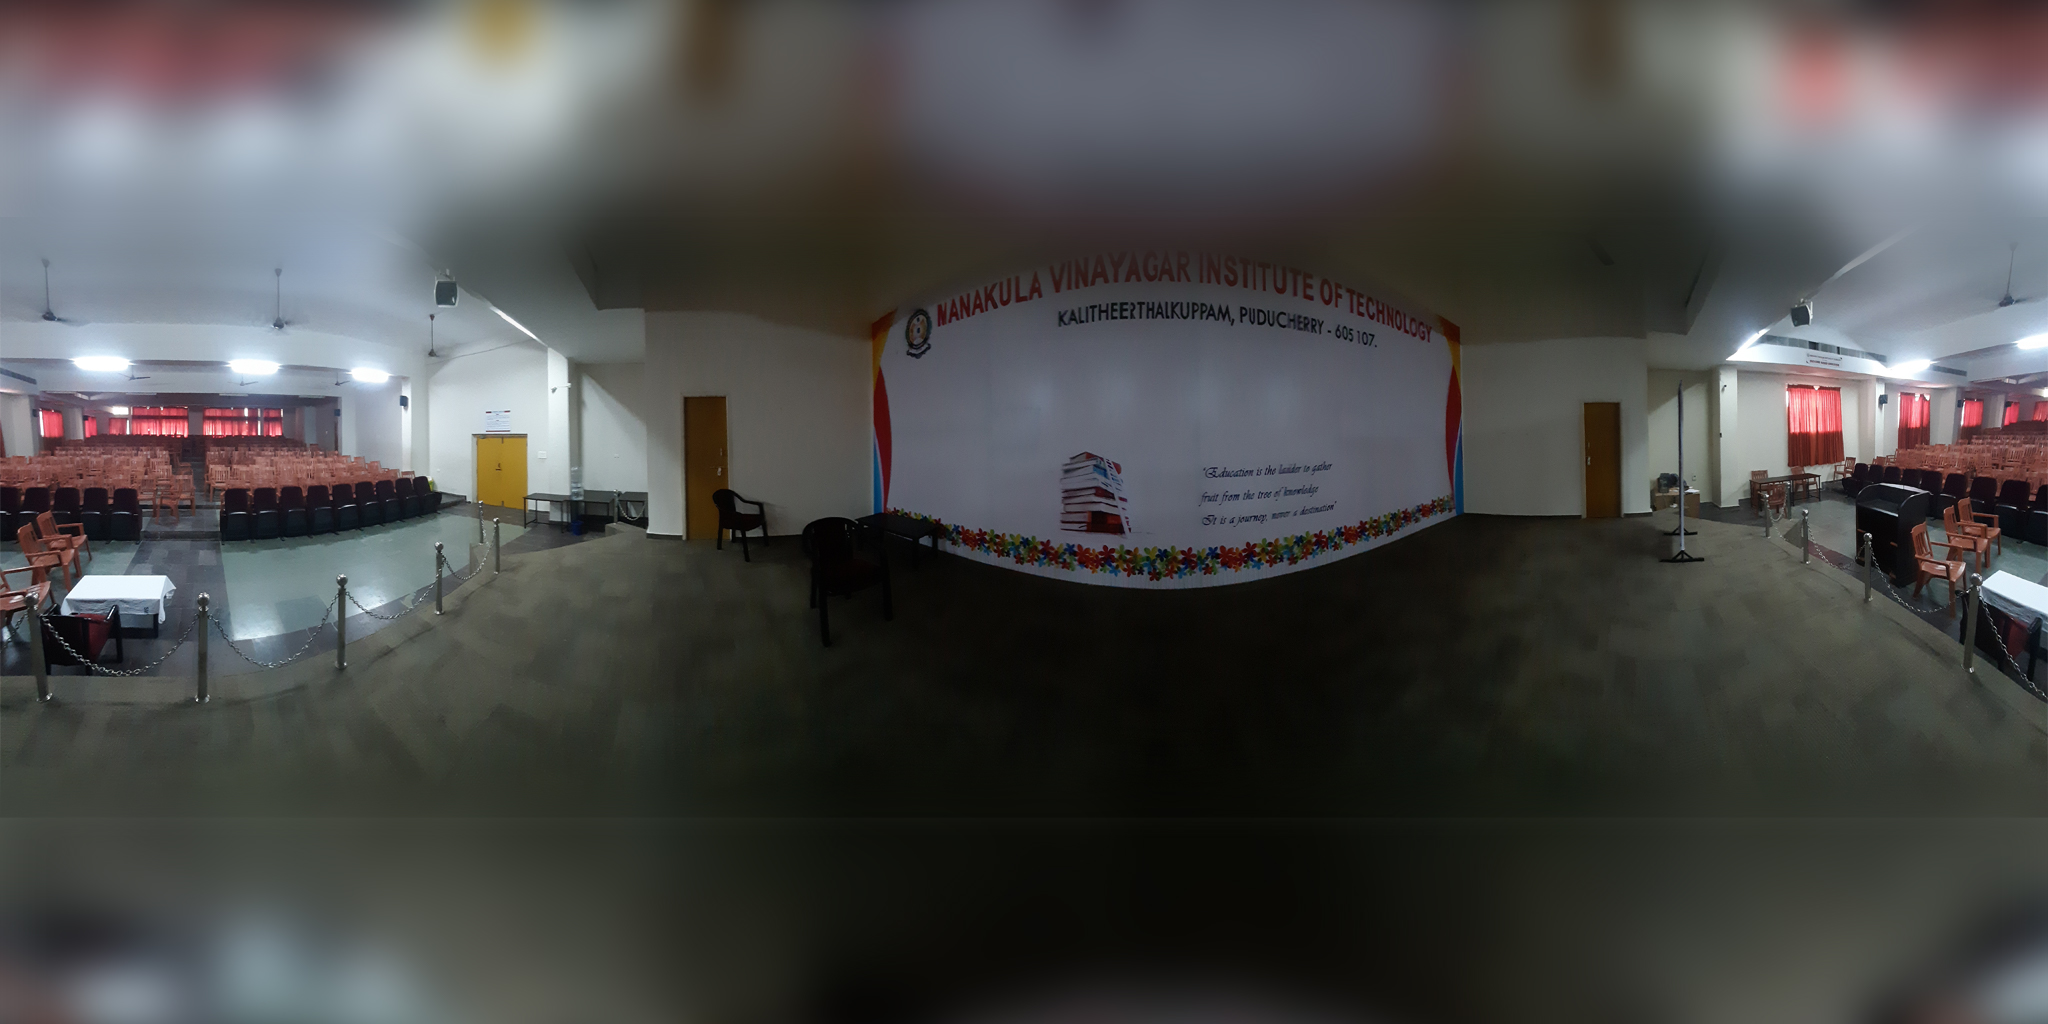
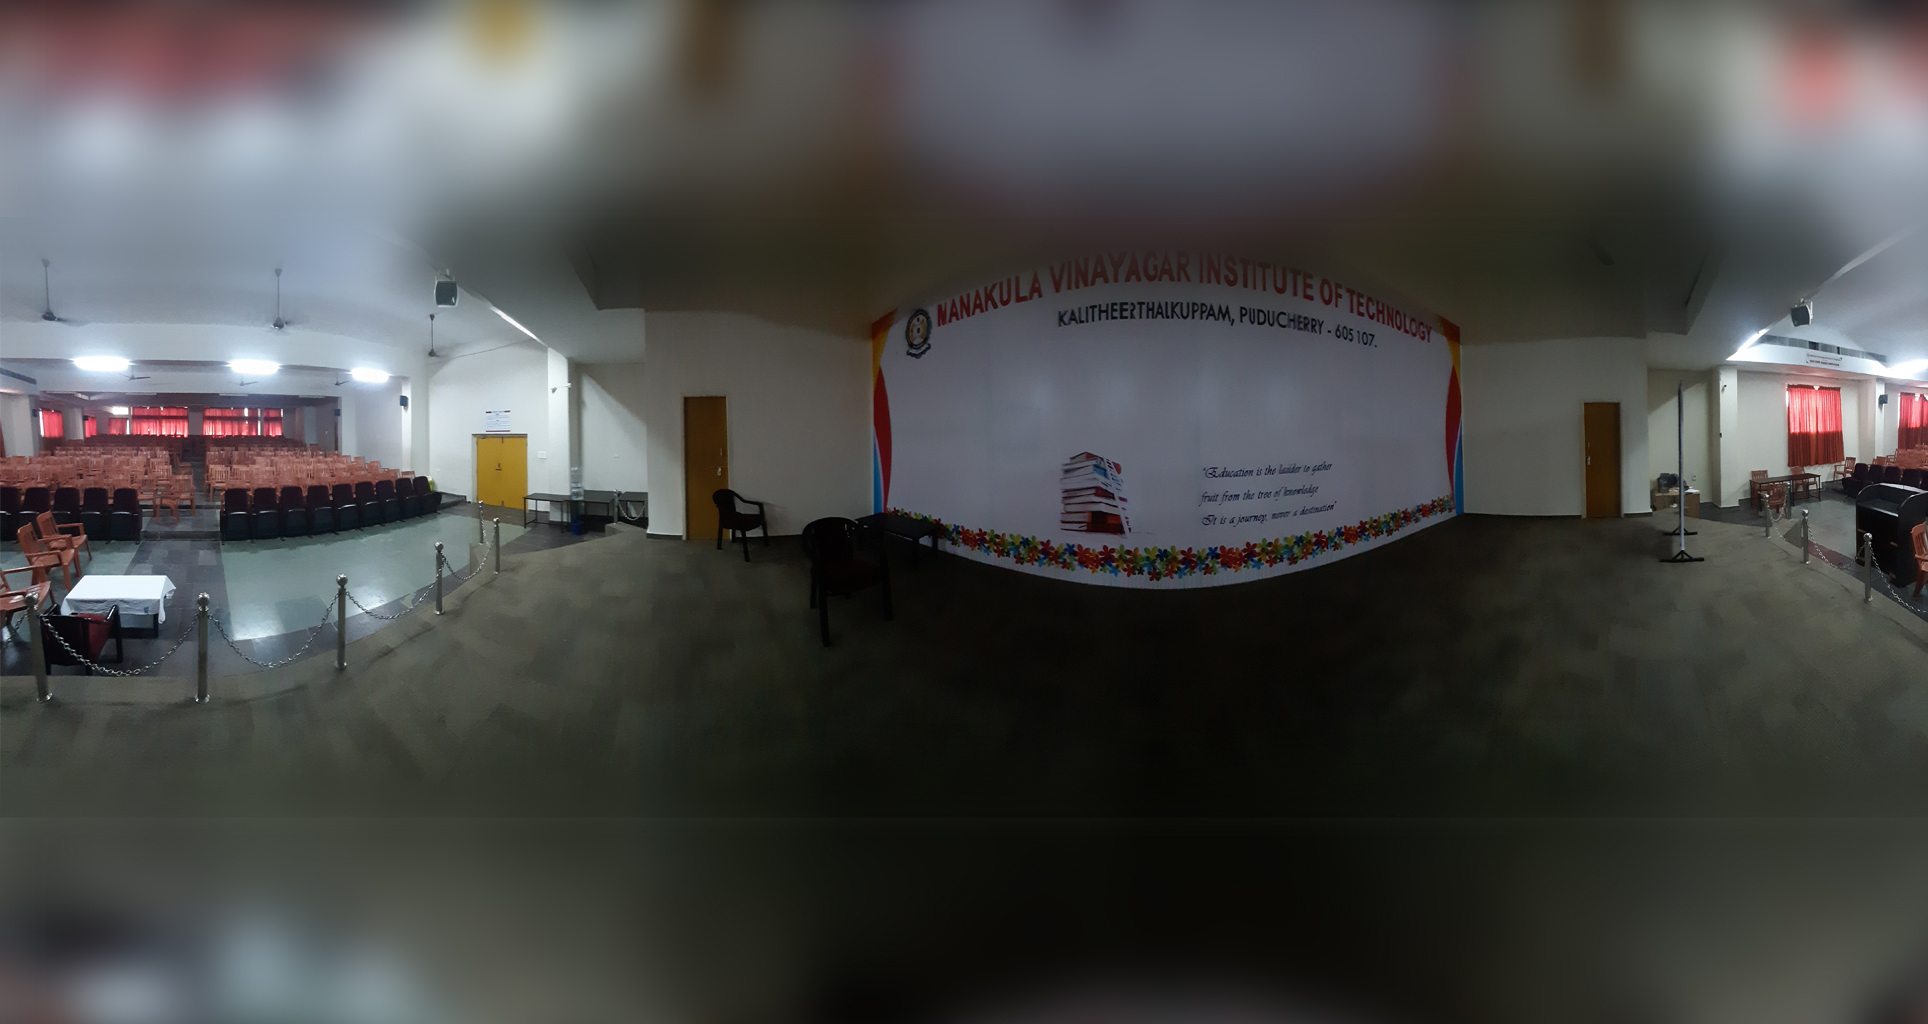
latestcommit

diff --git a/MR/templates/entrance.html b/MR/templates/entrance.html
@@ -17,8 +17,8 @@
 
             <img id="entrance-center" src="../templates/assets/360 img/ENTRANCE-CENTER.jpg">
             <img id="entrance-in" src="../templates/assets/icon/ENTRANCE-MAIN.png">
-            <img id="left-exit" src="../templates/assets/icon/ENTRANCE-LEFT.png">
-            <img id="entrance-out" src="../templates/assets/icon/ENTERANCE-OUT-1.png">
+           
+            <img id="arrow" src="../templates/assets/icon/arrow.png">
             <img id="entrance-1" src="../templates/assets/360 img/ENTRANCE-1.png">
             
         </a-assets>
@@ -27,14 +27,8 @@
         </a-entity>
         <a-sky id="image-360" src="#entrance-center">
             <a-text font="aileronsemibold" value="Entrance-In" width="6" position="-6.86838 2.47607 4.70854" scale="-2.46 2.99 -17.94" rotation="-7.02 -230.38000000000002 -0.7500000000000001" text="width: 5; align: center; color: #ffffff; side: back; negate: false; wrapCount: 38.85" visible=""></a-text>
-            
-            <a-text font="aileronsemibold" value="Entrance-Exit" width="6" position="6.84427 2.11433 -2.4453" scale="2 2.99 -17.94" rotation="-7.02 -247.16 -0.7500000000000001" text="width: 5; align: center; color: #ffffff; negate: false; wrapCount: 38.85" visible=""></a-text>
-            <a-text font="aileronsemibold" value="Left-Entrance-Exit" width="6" position="1.21249 1.99429 -8.65395" scale="1.9 1.83 -64.08" rotation="-3.6500000000000004 -196.68 1.24" text="width: 5; align: center; color: #ffffff; negate: false; wrapCount: 38.85" visible=""></a-text>
-
-            <a-entity id="entrance-in" geometry="height: 6; width: 6" material="src:#entrance-in; transparent: true; emissiveIntensity: 0" position="-22.74298 3.73781 15.08288" rotation="0.207410721837358 -44.20592 -1.58349" scale="1 1 -0.001" cursor-listener="" link="href: reception.html"></a-entity>
-            <a-entity id="left-exit" geometry="height: 6; width: 6" material="src:#left-exit; transparent: true; emissiveIntensity: 0" position="6.19733 5.38081 -35.39186" rotation="0.207410721837358 -44.41592000000001 -0.02349126960036375" scale="1 1 -0.001" cursor-listener="" link="href: left_entrance.html"></a-entity>
-           
-            <a-entity id="entrance-out" geometry="height: 6; width: 6" material="src: #entrance-out; transparent: true; emissiveIntensity: 0" position="31.98042 4.64233 -10.59072" rotation="0.01741 -53.71592 -0.02349126960036375" scale="1 1 -0.001" cursor-listener="" link="href: entrance-2.html"></a-entity>
+           <a-entity id="entrance-in" geometry="height: 6; width: 6" material="src:#entrance-in; transparent: true; emissiveIntensity: 0" position="-22.74298 3.73781 15.08288" rotation="0.207410721837358 -44.20592 -1.58349" scale="1 1 -0.001" cursor-listener="" link="href: reception.html"></a-entity>
+           <a-entity id="arrow" geometry="height: 6; width: 6" material="src: #arrow; transparent: true; emissiveIntensity: 0" position="6.04056 1.42667 -17.96215" rotation="0.01741 -135.87592 -0.02349126960036375" scale="1.88 0.72 0.099" cursor-listener="" link="href: entrance-2.html"></a-entity>
            </a-sky>
     </a-scene>
 </body>

diff --git a/MR/templates/library_outer.html b/MR/templates/library_outer.html
@@ -1,0 +1,37 @@
+<!DOCTYPE html>
+<html lang="en">
+
+<head>
+    <meta charset="UTF-8">
+    <meta http-equiv="X-UA-Compatible" content="IE=edge">
+    <meta name="viewport" content="width=device-width, initial-scale=1.0">
+    <title>Document</title>
+    <script src="https://aframe.io/releases/1.2.0/aframe.min.js"></script>
+    <link rel="stylesheet" href="../templates/css/main.css">
+    <script src="../templates/js/main.js"></script>
+</head>
+
+<body>
+    <a-scene>
+        <a-assets>
+
+            <img id="outer" src="../templates/assets/360 img/library_outer.jpg">
+            <img id="arrow" src="../templates/assets/icon/arrow.png">    
+            <img id="arrow-1" src="../templates/assets/icon/arrow.png">    
+            <img id="arrow-2" src="../templates/assets/icon/arrow.png">    
+
+           
+             
+        </a-assets>
+        <a-entity id="camera" camera mouse-cursor look-controls>
+            <a-cursor fuse="true" color="white"></a-cursor>
+        </a-entity>
+        <a-sky id="image-360" src="#outer">
+            <a-entity id="arrow" geometry="height: 6; width: 6; skipCache: true" material="src:#arrow ; transparent: true; emissiveIntensity: 0" position="-21.44273 2.6922 6.2821" rotation="-0.71 220.73 1.727" scale="-2.23 0.72 0.01" cursor-listener="" link="href: main-center.html"></a-entity>
+            <a-entity id="arrow-1" geometry="height: 6; width: 6; skipCache: true" material="src:#arrow-1; transparent: true; emissiveIntensity: 0" position="5.89451 6.76943 -32.50433" rotation="0.99 344.68000000000006 0.787" scale="-2.08 0.72 -0.28" cursor-listener="" link="href: library_front.html"></a-entity>
+            <a-entity id="arrow-2" geometry="height: 6; width: 6; skipCache: true" material="src:#arrow-2; transparent: true; emissiveIntensity: 0" position="-14.64244 4.16483 32.11311" rotation="-2.82 400 -10.253" scale="-3.14 0.72 -0.050" cursor-listener="" link="href: canteen.html"></a-entity>
+          </a-sky>
+    </a-scene>
+</body>
+
+</html>

diff --git a/MR/templates/main-center.html b/MR/templates/main-center.html
@@ -17,6 +17,9 @@
 
             <img id="entance-left" src="../templates/assets/360 img/MAIN-CENTER.jpg">
             <img id="exit" src="../templates/assets/icon/RECEPTION-OUT.png">
+            <img id="arrow" src="../templates/assets/icon/arrow.png">
+            <img id="arrow-1" src="../templates/assets/icon/arrow.png">
+            <img id="arrow-2" src="../templates/assets/icon/arrow.png">
     
           </a-assets>
         <a-entity id="camera" camera mouse-cursor look-controls>
@@ -24,6 +27,9 @@
         </a-entity>
         <a-sky id="image-360" src="#entance-left">
             <a-entity id="exit" geometry="height: 6; width: 6" material="src: #exit; transparent: true; emissiveIntensity: 0" position="13.0114 2.58805 -4.27078" rotation="-15.993 -250.00000000000003 180.6" scale="0.72 -0.86 -0.17" cursor-listener="" background="" link="href: reception.html"></a-entity>
+            <a-entity id="arrow" geometry="height: 6; width: 6" material="src: #arrow; transparent: true; emissiveIntensity: 0; side: back; width: 6" position="-13.17059 3.63049 1.72001" rotation="3.57 500.00000000000006 2.34" scale="-1.54999 0.47 0.01" cursor-listener="" background="" link="href: reception.html"></a-entity>
+            <a-entity id="arrow-1" geometry="height: 6; width: 6" material="src: #arrow-1; transparent: true; emissiveIntensity: 0" position="2.78303 2.90208 -13.22278" rotation="-15.540000000000001 -138.57 166.74" scale="1.72 -0.72 -0.02" cursor-listener="" background="" link="href: waiting_hall_way.html"></a-entity>
+            <a-entity id="arrow-2" geometry="height: 6; width: 6" material="src: #arrow-2; transparent: true; emissiveIntensity: 0" position="0.86695 3.35605 17.89981" rotation="40 -138.57 200" scale="0.98 -0.72 -0.02" cursor-listener="" background="" link="href: library_outer.html"></a-entity>
              </a-sky>
     </a-scene>
 </body>

diff --git a/MR/templates/canteen.html b/MR/templates/canteen.html
@@ -15,9 +15,9 @@
     <a-scene>
         <a-assets>
 
-            <img id="front" src="../templates/assets/360 img/library_front.jpg">
+            <img id="front" src="../templates/assets/360 img/canteen.jpg">
             <img id="arrow" src="../templates/assets/icon/arrow.png">
-            <img id="arrow-1" src="../templates/assets/icon/arrow.png">
+            
                 
            
              
@@ -26,8 +26,8 @@
             <a-cursor fuse="true" color="white"></a-cursor>
         </a-entity>
         <a-sky id="image-360" src="#front">
-            <a-entity id="arrow" geometry="height: 6; width: 6; skipCache: true" material="src:#arrow; transparent: true; emissiveIntensity: 0" position="-9.57073 0.40249 13.8082" rotation="3.3 220 0.587" scale="-3.45 0.72 -0.03" cursor-listener="" link="href: library_last.html"></a-entity>
-            <a-entity id="arrow-1" geometry="height: 6; width: 6; skipCache: true" material="src: #arrow-1; transparent: true; emissiveIntensity: 0" position="17.2745 4.29218 -4.06063" rotation="3.27 205.78 -9.563" scale="-2.79 -0.57 0.14" cursor-listener="" link="href: library_outer.html"></a-entity>
+            
+            <a-entity id="arrow" geometry="height: 6; width: 6; skipCache: true" material="src: #arrow; transparent: true; emissiveIntensity: 0" position="-4.28788 1.75684 16.68479" rotation="3.27 116.25999999999999 -0.9630000000000001" scale="-0.98 -0.44 0.02" cursor-listener="" link="href: library_outer.html"></a-entity>
             
         </a-sky>
     </a-scene>

diff --git a/MR/templates/waiting_hall_way.html b/MR/templates/waiting_hall_way.html
@@ -1,0 +1,32 @@
+<!DOCTYPE html>
+<html lang="en">
+
+<head>
+    <meta charset="UTF-8">
+    <meta http-equiv="X-UA-Compatible" content="IE=edge">
+    <meta name="viewport" content="width=device-width, initial-scale=1.0">
+    <title>Document</title>
+    <script src="https://aframe.io/releases/1.2.0/aframe.min.js"></script>
+    <link rel="stylesheet" href="../templates/css/main.css">
+    <script src="../templates/js/main.js"></script>
+</head>
+
+<body>
+    <a-scene>
+        <a-assets>
+
+            <img id="way" src="../templates/assets/360 img/waiting_hall_way.jpg">
+            <img id="arrow" src="../templates/assets/icon/arrow.png">    
+           
+             
+        </a-assets>
+        <a-entity id="camera" camera mouse-cursor look-controls>
+            <a-cursor fuse="true" color="white"></a-cursor>
+        </a-entity>
+        <a-sky id="image-360" src="#way">
+            <a-entity id="arrow" geometry="height: 6; width: 6; skipCache: true" material="src: #arrow; transparent: true; emissiveIntensity: 0" position="12.33684 2.98487 19.08681" rotation="0.74 127.69 -6.053" scale="-6.2 0.5 0.01" cursor-listener="" link="href: waiting_hall.html"></a-entity>
+          </a-sky>
+    </a-scene>
+</body>
+
+</html>

diff --git a/MR/templates/middle_library.html b/MR/templates/middle_library.html
@@ -16,14 +16,16 @@
         <a-assets>
 
             <img id="middle" src="../templates/assets/360 img/middle_library.jpg">
-    
-           
+            <img id="arrow-1" src="../templates/assets/icon/arrow.png">
+            <img id="arrow-2" src="../templates/assets/icon/arrow.png">
              
         </a-assets>
         <a-entity id="camera" camera mouse-cursor look-controls>
             <a-cursor fuse="true" color="white"></a-cursor>
         </a-entity>
         <a-sky id="image-360" src="#middle">
+            <a-entity id="arrow-1" geometry="height: 6; width: 6; skipCache: true" material="src:#arrow-1; transparent: true; emissiveIntensity: 0" position="9.57073 0.40249 13.8082" rotation="3.3 220 0.587" scale="-3.45 0.72 -0.03" cursor-listener="" link="href: middle_library.html"></a-entity>
+            <a-entity id="arrow-2" geometry="height: 6; width: 6; skipCache: true" material="src:#arrow-2; transparent: true; emissiveIntensity: 0" position="-9.22571 3.1018 -20.91071" rotation="0.99 336 0.787" scale="-1.93 0.72 0.15" cursor-listener="" link="href: library_last.html"></a-entity>
           </a-sky>
     </a-scene>
 </body>

diff --git a/MR/templates/library_last.html b/MR/templates/library_last.html
@@ -16,7 +16,8 @@
         <a-assets>
 
             <img id="last" src="../templates/assets/360 img/library_last.jpg">
-    
+            <img id="arrow" src="../templates/assets/icon/arrow.png">    
+            <img id="arrow-1" src="../templates/assets/icon/arrow.png">    
            
              
         </a-assets>
@@ -24,6 +25,8 @@
             <a-cursor fuse="true" color="white"></a-cursor>
         </a-entity>
         <a-sky id="image-360" src="#last">
+            <a-entity id="arrow" geometry="height: 6; width: 6; skipCache: true" material="src: #arrow; transparent: true; emissiveIntensity: 0" position="47.66358 10.07183 -6.49348" rotation="3.09 220 -12.113" scale="-3.09 0.72 0.32" cursor-listener="" link="href: middle_library.html"></a-entity>
+            <a-entity id="arrow-1" geometry="height: 6; width: 6; skipCache: true" material="src: #arrow-1; transparent: true; emissiveIntensity: 0" position="-19.43108 6.18784 -71.26816" rotation="-10 288.29 -5" scale="-16.67 1.01 0.02" cursor-listener="" link="href: library_front.html"></a-entity>
           </a-sky>
     </a-scene>
 </body>

diff --git a/MR/templates/right-exit-1.html b/MR/templates/right-exit-1.html
@@ -17,6 +17,7 @@
 
             <img id="entance-right-1" src="../templates/assets/360 img/ENTRANCE-RIGTHT-GATE.jpg">
             <img id="right-exit" src="../templates/assets/icon/ENTRANCE-RIGHT-GATE.png">
+            <img id="arrow" src="../templates/assets/icon/arrow.png">
             
            
         </a-assets>
@@ -27,7 +28,7 @@
             
             
             <a-entity id="right-exit" geometry="height: 6; width: 6" material="src: #right-exit; transparent: true; emissiveIntensity: 0" position="8.79177 1.35744 11.1095" rotation="0.207410721837358 40 -0.02349126960036375" scale="1 1 -0.001" cursor-listener="" link="href: right-center.html"></a-entity>           
-             
+            <a-entity id="arrow" geometry="height: 6; width: 6" material="src: #arrow; transparent: true; emissiveIntensity: 0" position="8.79177 1.35744 11.1095" rotation="0.207410721837358 40 -0.02349126960036375" scale="1 1 -0.001" cursor-listener="" link="href: right-center.html"></a-entity>           
                   
                 
              </a-sky>

diff --git a/MR/templates/auditorium_front.html b/MR/templates/auditorium_front.html
@@ -15,7 +15,7 @@
     <a-scene>
         <a-assets>
 
-            <img id="books" src="../templates/assets/360 img/library_books.jpg">
+            <img id="front" src="../templates/assets/360 img/auditorium_front.jpg">
     
            
              
@@ -23,7 +23,7 @@
         <a-entity id="camera" camera mouse-cursor look-controls>
             <a-cursor fuse="true" color="white"></a-cursor>
         </a-entity>
-        <a-sky id="image-360" src="#books">
+        <a-sky id="image-360" src="#front">
           </a-sky>
     </a-scene>
 </body>
